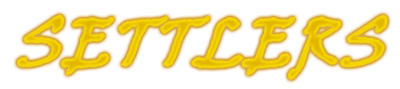
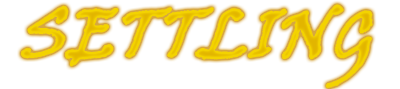
Fixed the title. Added some Chunk code for later

diff --git a/src/common/net/specialattack/settling/common/world/Chunk.java b/src/common/net/specialattack/settling/common/world/Chunk.java
@@ -8,11 +8,35 @@ public class Chunk {
     public final int chunkZ;
 
     public Chunk(World world, int chunkX, int chunkZ) {
+        // 0 is the lowest
         this.sections = new Section[world.getWorldHeight() >> 4];
 
         this.chunkX = chunkX;
         this.chunkZ = chunkZ;
     }
+
+//    public short getHighestBlock(int tileX, int tileZ) {
+//        tileX = tileX % 16;
+//        tileZ = tileZ % 16;
+//
+//        if (tileX < 0) {
+//            tileX = tileX + 16;
+//        }
+//        if (tileZ < 0) {
+//            tileZ = tileZ + 16;
+//        }
+//
+//        int highest = sections.length << 4;
+//        boolean highestNotFound = true;
+//
+//        while (highestNotFound) {
+//            short tile = sections[sections.length - highest % 16].tiles[tileX * highest * tileZ];
+//            if (tile != 0) {
+//                return  tile;
+//            }
+//        }
+//        return 0;
+//    }
 
     public short getHeight(int tileX, int tileZ) {
         tileX = tileX % 16;
